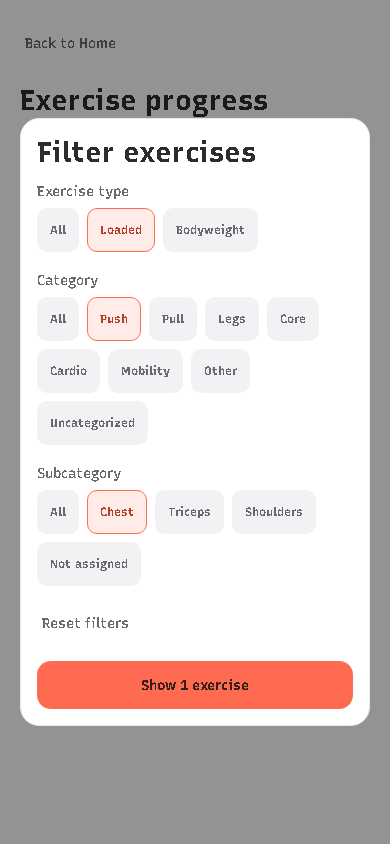
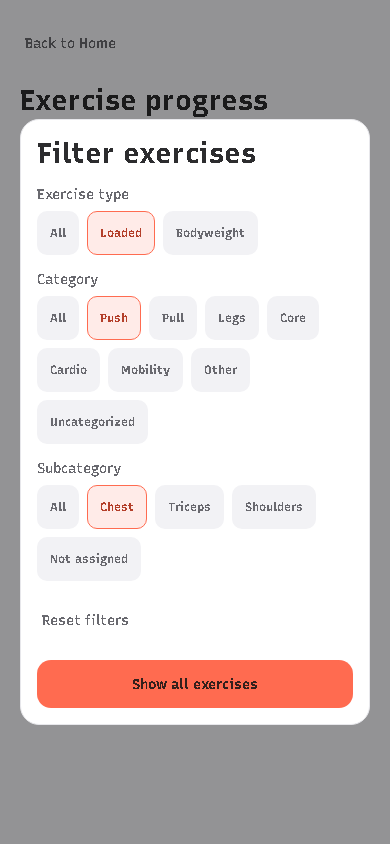
fix: align exercise filter toolbar spacing

diff --git a/mobile/src/features/progress/ProgressBrowseControls.tsx b/mobile/src/features/progress/ProgressBrowseControls.tsx
@@ -14,24 +14,28 @@ export function ProgressBrowseControls({ theme, search, onSearch, filters, onFil
   const active = Number(filters.category !== 'All') + Number(filters.subcategory !== 'All') + Number(filters.mode !== 'all');
   const groups = filters.category === 'All' ? [] : subcategoriesFor(filters.category);
   const summary = [filters.category === 'All' ? '' : filters.category || 'Uncategorized', filters.subcategory === 'All' ? '' : filters.subcategory || 'Not assigned', filters.mode === 'all' ? '' : filters.mode === 'loaded' ? 'Loaded' : 'Bodyweight'].filter(Boolean).join(' / ');
-  return <View style={{ gap: 10 }}>
+  return <View style={{ gap: 16 }}>
+    <View style={{ gap: 8 }}>
     <Text style={{ color: theme.text, fontFamily: fonts.bold }}>Find an exercise</Text>
-    <View style={{ flexDirection: 'row', alignItems: 'center', borderWidth: focused ? 2 : 1, borderColor: focused ? theme.primary : theme.muted, borderRadius: 14, backgroundColor: theme.surface }}>
+    <View style={{ flexDirection: 'row', alignItems: 'center', borderWidth: 2, borderColor: focused ? theme.primary : theme.muted, borderRadius: 14, backgroundColor: theme.surface }}>
       <TextInput accessibilityLabel="Search exercise progress" placeholder="Type an exercise or muscle group..." placeholderTextColor={theme.muted} value={search} onChangeText={onSearch} autoCorrect={false} returnKeyType="search" onFocus={() => setFocused(true)} onBlur={() => setFocused(false)}
-        style={{ flex: 1, minWidth: 0, minHeight: 52, padding: 14, color: theme.text, fontFamily: fonts.medium, fontSize: 16 }} />
+        style={{ flex: 1, minWidth: 0, minHeight: 48, padding: 14, color: theme.text, fontFamily: fonts.medium, fontSize: 16 }} />
       {!!search && <Pressable accessibilityRole="button" accessibilityLabel="Clear search" onPress={() => onSearch('')} style={{ minWidth: 48, minHeight: 48, justifyContent: 'center', alignItems: 'center' }}><Text style={{ color: theme.muted, fontSize: 22 }}>×</Text></Pressable>}
     </View>
-    <View style={{ flexDirection: 'row', flexWrap: 'wrap', gap: 12, alignItems: 'center' }}>
+    </View>
+    <View style={{ flexDirection: 'row', justifyContent: 'space-between', gap: 16, alignItems: 'center' }}>
       <Button theme={theme} label={active ? `Filters (${active})` : 'Filters'} onPress={() => { Keyboard.dismiss(); setOpen(true); }} />
-      {active > 0 && <Button theme={theme} variant="link" label="Clear filters" onPress={() => onFilters(emptyProgressFilters)} />}
       {ready && <Text accessibilityLiveRegion="polite" style={{ color: theme.muted }}>{count} {count === 1 ? 'exercise' : 'exercises'}</Text>}
     </View>
-    {!!summary && <Text style={{ color: theme.muted }}>{summary}</Text>}
+    {!!summary && <View style={{ flexDirection: 'row', flexWrap: 'wrap', gap: 8, alignItems: 'center', justifyContent: 'space-between' }}>
+      <Text style={{ color: theme.muted, flexGrow: 1, flexShrink: 1, minWidth: 120 }}>{summary}</Text>
+      <Button theme={theme} variant="link" label="Clear filters" onPress={() => onFilters(emptyProgressFilters)} />
+    </View>}
     {open && <Modal transparent animationType="fade" onRequestClose={() => setOpen(false)}>
       <View style={{ flex: 1, justifyContent: 'center', padding: 20, backgroundColor: '#00000066' }}>
-        <View accessibilityViewIsModal style={[styles.card, { backgroundColor: theme.surface, borderColor: theme.border, width: '100%', maxWidth: 520, maxHeight: '90%', alignSelf: 'center' }]}>
+        <View accessibilityViewIsModal style={[styles.card, { gap: 16, backgroundColor: theme.surface, borderColor: theme.border, width: '100%', maxWidth: 520, maxHeight: '90%', alignSelf: 'center' }]}>
           <Text accessibilityRole="header" style={[styles.heading, { color: theme.text }]}>Filter exercises</Text>
-          <ScrollView contentContainerStyle={{ gap: 20 }} style={{ flexShrink: 1 }} keyboardShouldPersistTaps="handled">
+          <ScrollView contentContainerStyle={{ gap: 16 }} style={{ flexShrink: 1 }} keyboardShouldPersistTaps="handled">
             <Choice<ProgressFilters['mode']> theme={theme} label="Exercise type" value={filters.mode} options={[{ value: 'all', label: 'All' }, { value: 'loaded', label: 'Loaded' }, { value: 'bodyweight', label: 'Bodyweight' }]} onChange={mode => onFilters({ ...filters, mode })} />
             <Choice<ExerciseCategory | 'All'> theme={theme} label="Category" value={filters.category} options={[{ value: 'All', label: 'All' }, ...exerciseCategories.map(value => ({ value, label: value })), { value: '', label: 'Uncategorized' }]} onChange={category => onFilters({ ...filters, category, subcategory: 'All' })} />
             {groups.length > 0 && <Choice<ExerciseSubcategory | 'All'> theme={theme} label="Subcategory" value={filters.subcategory} options={[{ value: 'All', label: 'All' }, ...groups.map(value => ({ value, label: value })), { value: '', label: 'Not assigned' }]} onChange={subcategory => onFilters({ ...filters, subcategory })} />}
